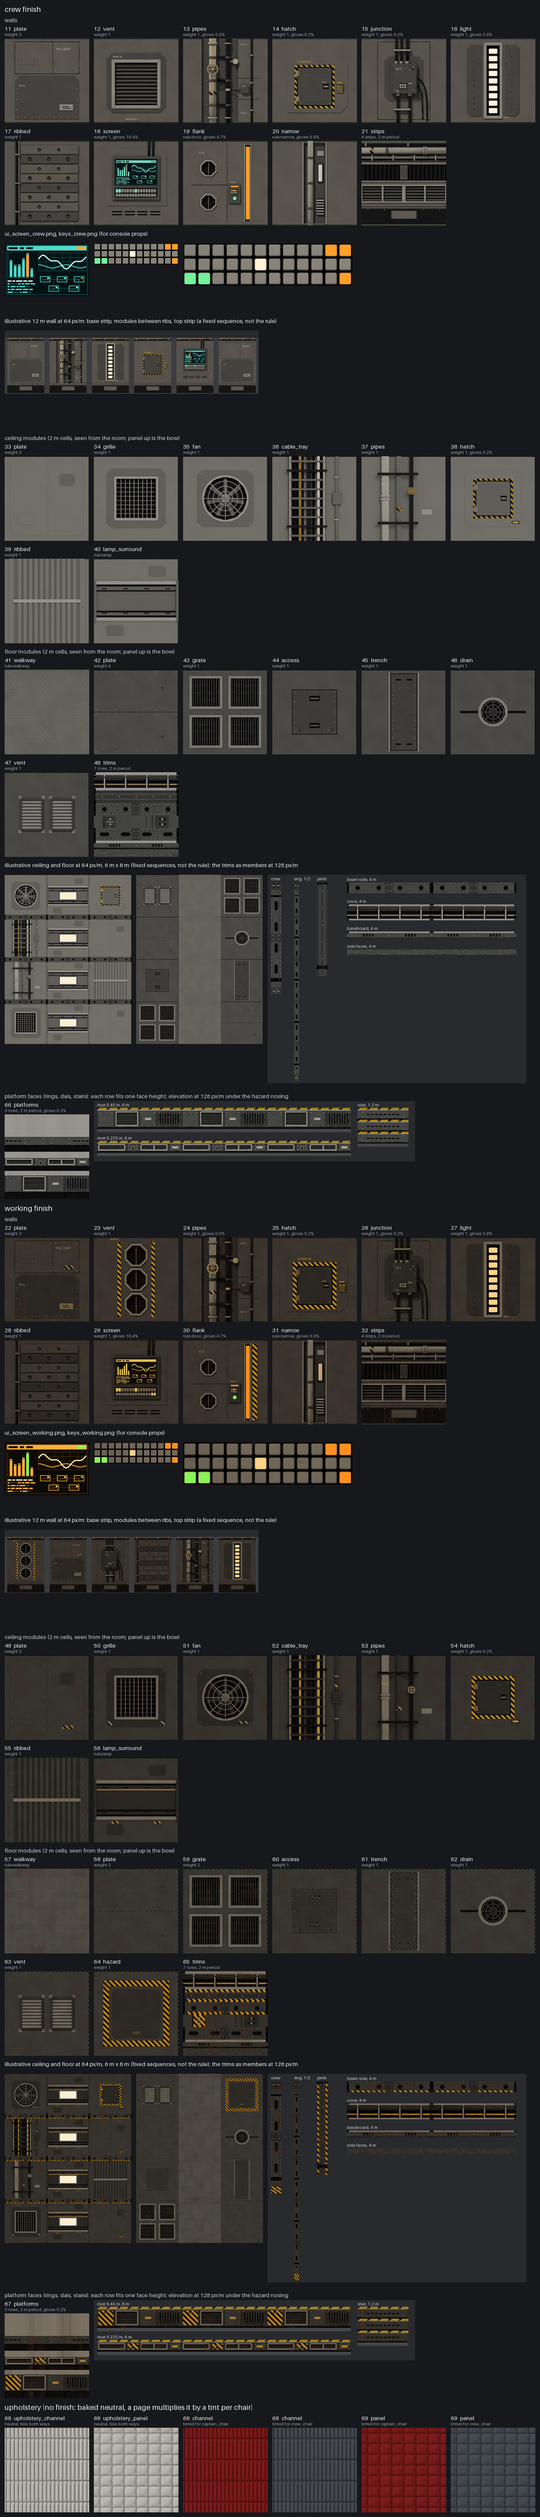
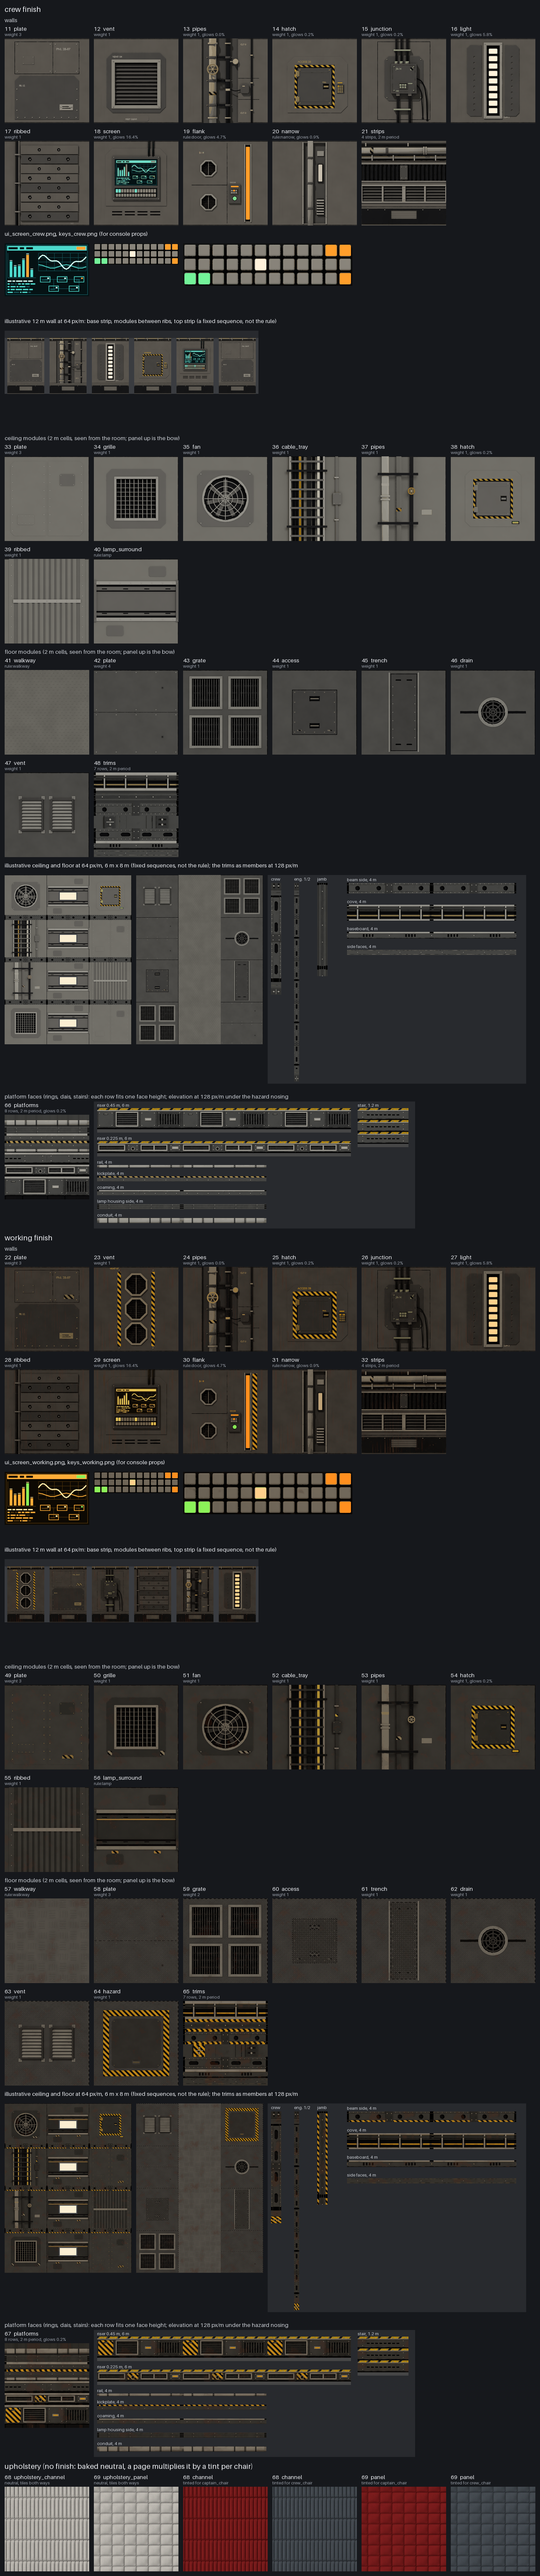
Platform layer: the working finish and the panels contact sheet rebuilt (in progress)
Claude-Session: https://claude.ai/code/session_01XPxx9YMuxAXorVnQzDeXcp

diff --git a/tools/blender/build_wall_panels.py b/tools/blender/build_wall_panels.py
@@ -2088,9 +2088,11 @@ def p_step(P, ox, h, F):
 
 
 def p_rail(P, ox, h, F):
-    """A rail across its 6.25 cm row: a round steel bar (lit from above, so it reads round) on a dark
+    """A rail across its 6.25 cm row (the member rows build their continuous pieces once, with the middle
+    copy, as face_frame does the lip): a round steel bar (lit from above, so it reads round) on a dark
     ground, a clamp band with a bolt every 0.5 m."""
-    P.cyl("bar", "x", (h / 2, -0.004), h / 2 - 0.002, ox - 1.05, ox + 1.05, "trim", sides=24)
+    if ox == 0.0:     # continuous pieces once across the render (see face_frame)
+        P.cyl("bar", "x", (h / 2, -0.004), h / 2 - 0.002, -3.2, 3.2, "trim", sides=24)
     for dx in (-0.75, -0.25, 0.25, 0.75):
         P.cyl("clamp", "x", (h / 2, -0.004), h / 2 + 0.003, ox + dx - 0.018, ox + dx + 0.018, "paint2", sides=24, bevel=0.003)
         P.cyl("clamp_bolt", "z", (ox + dx, h / 2), 0.008, 0.0, h / 2 + 0.008, "trim", sides=10, bevel=0.003)
@@ -2102,7 +2104,8 @@ def p_kick(P, ox, h, F):
     hazard edge along its top."""
     for a, b in ((-1.0, -0.004), (0.004, 1.0)):
         P.box("kick", (ox + a, 0.006, -0.01), (ox + b, h - 0.034, 0.008), "bulkhead", bevel=0.004)
-    P.box("hazard_edge", (ox - 1.05, h - 0.03, -0.01), (ox + 1.05, h + 0.02, 0.01), "hazard", bevel=0.003)
+    if ox == 0.0:
+        P.box("hazard_edge", (-3.2, h - 0.03, -0.01), (3.2, h + 0.02, 0.01), "hazard", bevel=0.003)
     bolts(P, [(ox + x, 0.035) for x in (-0.875, -0.375, 0.125, 0.625)], r=0.01, z0=0.0, z1=0.019)
     return []
 
@@ -2110,7 +2113,8 @@ def p_kick(P, ox, h, F):
 def p_collar(P, ox, h, F):
     """A floor opening's coaming across its 12.5 cm row: a steel lip along its top, a bolted plate under
     it with a bolt every 0.25 m, a joint every 1 m."""
-    P.box("lip", (ox - 1.05, h - 0.03, -0.01), (ox + 1.05, h + 0.02, 0.016), "trim", bevel=0.005)
+    if ox == 0.0:
+        P.box("lip", (-3.2, h - 0.03, -0.01), (3.2, h + 0.02, 0.016), "trim", bevel=0.005)
     for a, b in ((-1.0, -0.004), (0.004, 1.0)):
         P.box("plate", (ox + a, 0.004, -0.01), (ox + b, h - 0.034, 0.008), "bulkhead", bevel=0.004)
     bolts(P, [(ox - 0.875 + 0.25 * k, (h - 0.03) / 2) for k in range(8)], r=0.01, z0=0.0, z1=0.019)
@@ -2120,8 +2124,8 @@ def p_collar(P, ox, h, F):
 def p_housing(P, ox, h, F):
     """A lamp housing's side across its 12.5 cm row: three raised ribs along it on a dark ground and a
     seam with two screws every 0.5 m."""
-    for y0, y1 in ((0.012, 0.036), (0.05, 0.075), (0.089, 0.113)):
-        P.box("rib", (ox - 1.05, y0, -0.01), (ox + 1.05, y1, 0.009), "bulkhead", bevel=0.004)
+    for y0, y1 in ((0.012, 0.036), (0.05, 0.075), (0.089, 0.113)) if ox == 0.0 else ():
+        P.box("rib", (-3.2, y0, -0.01), (3.2, y1, 0.009), "bulkhead", bevel=0.004)
     cuts = []
     for dx in (-0.75, -0.25, 0.25, 0.75):
         cuts.append(P.box("seam", (ox + dx - 0.006, -0.1, -0.03), (ox + dx + 0.006, h + 0.1, 0.05), "machinery"))
@@ -2134,7 +2138,8 @@ def p_pipe(P, ox, h, F):
     """A conduit seen side on across its 12.5 cm row: a pipe filling the row, a clamp every 0.5 m and a
     flange pair every 1 m."""
     r = h / 2 - 0.004
-    P.cyl("pipe", "x", (h / 2, -0.01), r, ox - 1.05, ox + 1.05, "trim", sides=28)
+    if ox == 0.0:
+        P.cyl("pipe", "x", (h / 2, -0.01), r, -3.2, 3.2, "trim", sides=28)
     for dx in (-0.75, -0.25, 0.25, 0.75):
         P.cyl("clamp", "x", (h / 2, -0.01), r + 0.004, ox + dx - 0.015, ox + dx + 0.015, "paint2", sides=28, bevel=0.003)
     for dx in (-0.5, 0.5):
